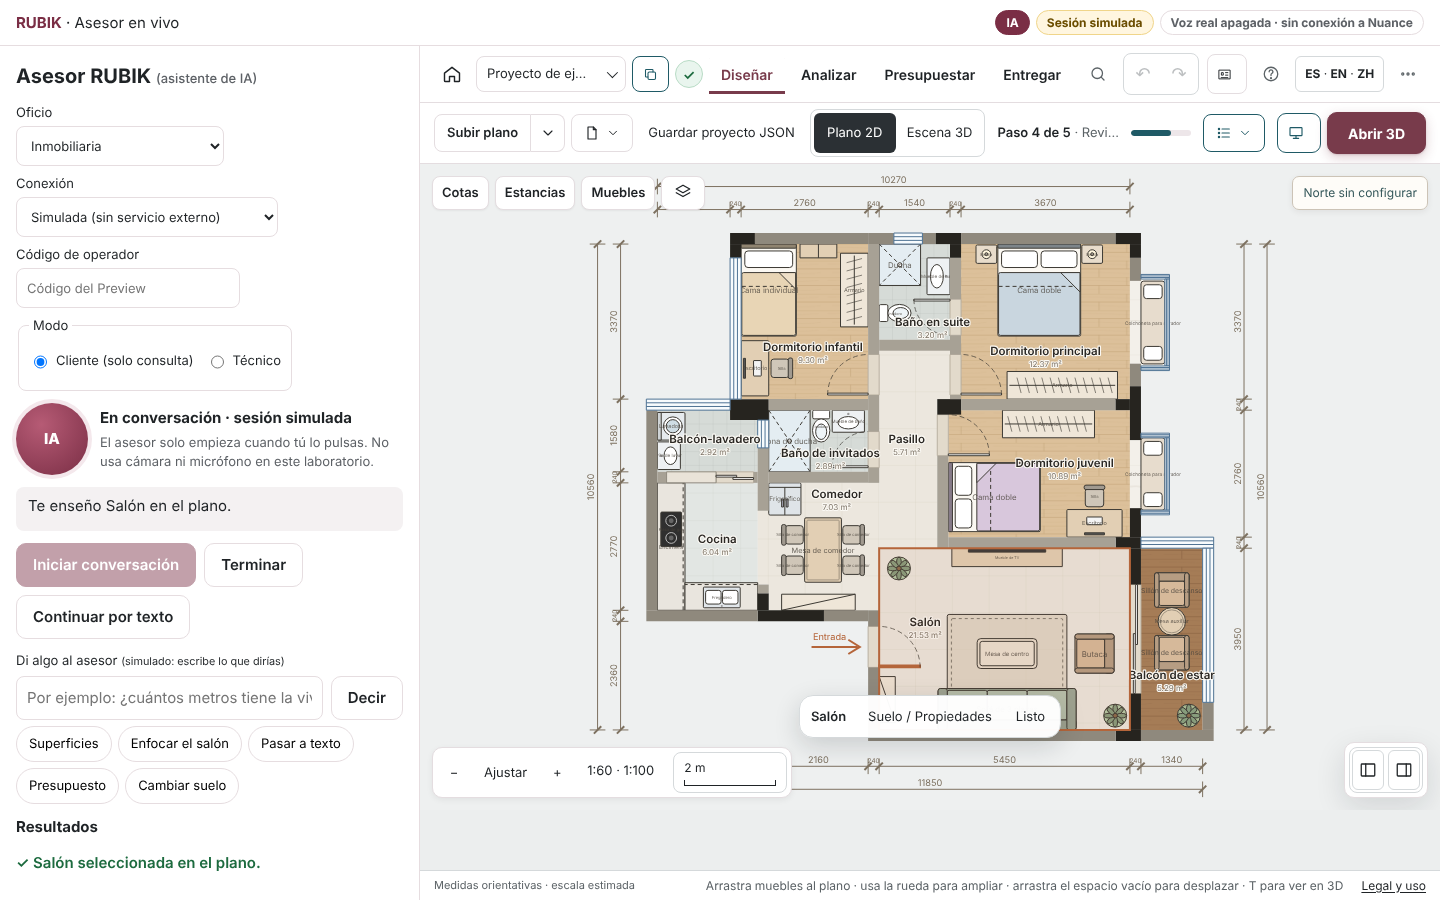
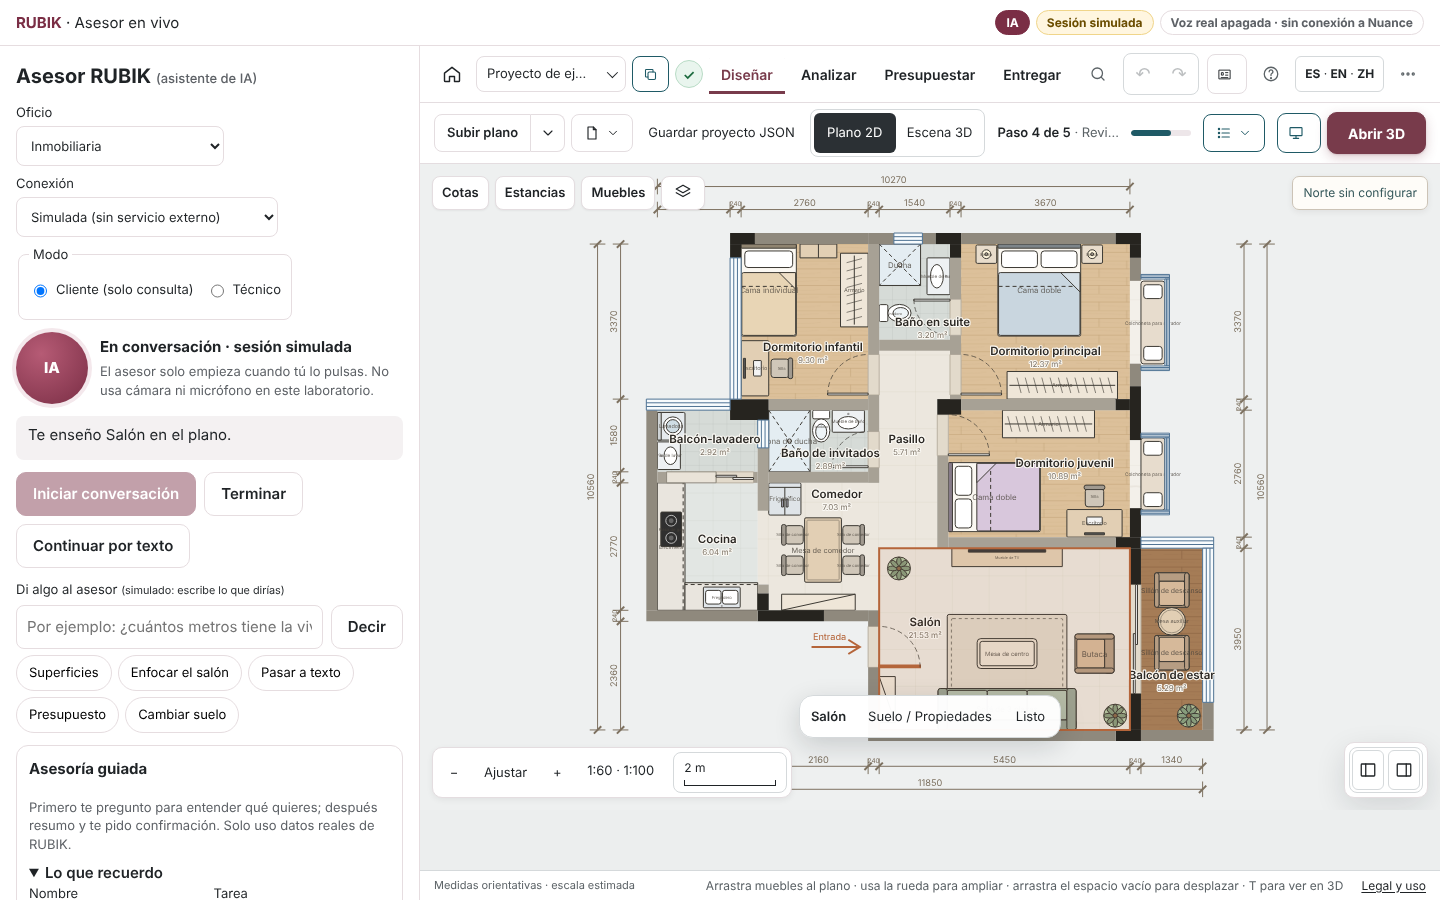
Asesor RUBIK · U14 (3/3): skills socráticos (presupuesto, organización, puntualidad, negocio) con memoria, sinceridad y seguridad legal; informe y pasos del primer ensayo privado
Pruebas del Asesor: 12/12 (servidor 5, Nuance Live contra simulador del protocolo 3, skills 2, laboratorio 2). Sin llamadas reales ni gasto.

Claude-Session: https://claude.ai/code/session_01QDzoLgCxdVTbtJTJCfqnTi

Changed region(s): [[0.0, 0.28, 0.2812, 1.0], [0.1562, 0.9956, 0.1875, 1.0]]

diff --git a/labs/asesor-rubik/skills.js b/labs/asesor-rubik/skills.js
@@ -1,0 +1,83 @@
+/* Asesor RUBIK · SKILLS del agente con INTERROGATORIO SOCRÁTICO (laboratorio; determinista, sin modelo ni red).
+   Principios (aplican a todos los skills):
+   - Memoria explícita y visible: nombre, tarea y misión final. La persona la ve, la corrige y la puede olvidar.
+   - Socrático: primero preguntas abiertas para entender qué quiere y qué necesita; después un resumen con sus palabras y
+     «¿Lo he entendido bien?». Nada se propone antes de confirmar.
+   - Realista y sincero: solo datos reales de RUBIK (superficies, tareas, presupuesto si el modo lo permite); lo estimado se
+     dice; lo que falta se dice; nunca se inventan precios, fechas ni garantías.
+   - Máxima seguridad legal: no hay asesoría legal, fiscal ni normativa vinculante; la normativa solo con fuente oficial
+     verificada por un profesional; datos personales (DNI/NIE, IBAN, teléfono, correo) no se guardan ni se envían.
+   - Respeta el modo: en modo cliente no hay costes internos; los cambios solo se proponen y se confirman en RUBIK. */
+(function(root){'use strict';
+ const fold=s=>String(s||'').toLowerCase().normalize('NFD').replace(/[̀-ͯ]/g,'');
+ // Datos personales que nunca se guardan (se avisa y se descarta la respuesta).
+ const PII=[[/\b\d{8}[a-z]\b|\b[xyz]\d{7}[a-z]\b/i,'un DNI o NIE'],[/\bES\d{2}[\s\d]{20,}/i,'un IBAN'],[/(\+34[\s-]?)?\b[6-9]\d{2}[\s-]?\d{3}[\s-]?\d{3}\b/,'un teléfono'],[/[^\s@]+@[^\s@]+\.[a-z]{2,}/i,'un correo electrónico']];
+ const LEGAL=/licencia|permiso de obra|normativa|ley\b|legal|ilegal|multa|impuesto|iva\b|hacienda|fiscal|contrato|demanda|abogad|cte\b|codigo tecnico|accesibilidad obligatoria|urbanis/;
+ const LEGAL_NOTE='No doy asesoría legal, fiscal ni normativa vinculante. Para licencias, normativa o impuestos consulta a un profesional colegiado o al organismo competente; RUBIK no verifica la normativa local.';
+ const PROMISE=/garantiz|seguro que|sin duda|100 ?%|prometo/;
+ const SKILLS={
+  presupuesto:{titulo:'Presupuesto',preguntas:[
+    ['alcance','¿Qué quieres conseguir con la obra o el proyecto, con tus palabras?'],
+    ['prioridad','Si tuvieras que elegir, ¿qué es lo más importante: plazo, calidad o coste? ¿Por qué?'],
+    ['limite','¿Tienes un límite de gasto? Puedes decir una cifra aproximada o «aún no lo sé».'],
+    ['incluye','¿Qué debería incluir sí o sí, y qué podría quedar fuera?']]},
+  organizacion:{titulo:'Organización',preguntas:[
+    ['objetivo','¿Cuál es el resultado final que necesitas tener terminado?'],
+    ['personas','¿Quién participa y quién decide en cada paso?'],
+    ['bloqueos','¿Qué te está frenando ahora mismo?']]},
+  puntualidad:{titulo:'Puntualidad y plazos',preguntas:[
+    ['fecha','¿Para qué fecha lo necesitas? (por ejemplo 2026-12-20)'],
+    ['dias','¿Cuántos días de trabajo crees que hacen falta?'],
+    ['dependencias','¿De qué o de quién depende que se cumpla (permisos, proveedores, cliente)?']]},
+  negocio:{titulo:'Negocio',preguntas:[
+    ['cliente','¿Quién es tu cliente ideal para este trabajo?'],
+    ['valor','¿Qué valor concreto recibe ese cliente que no consigue en otro sitio?'],
+    ['medida','¿Cómo sabrás que ha salido bien? Dime una medida (encargos, margen, plazo de cobro…).']]}};
+
+ class Mentor{
+  constructor({rubik,mode='cliente',tools=root.AsesorTools,now=()=>new Date()}){Object.assign(this,{rubik,mode,tools,now});this.memoria={nombre:null,tarea:null,mision:null};this.skill=null;this.i=0;this.respuestas={};this.avisos=[];}
+  recuerda(campo,valor){if(!['nombre','tarea','mision'].includes(campo))return false;const v=String(valor||'').trim().slice(0,120);const pii=this._pii(v);if(pii){this.avisos.push(pii);return false;}this.memoria[campo]=v||null;return true;}
+  olvida(){this.memoria={nombre:null,tarea:null,mision:null};this.respuestas={};this.skill=null;this.i=0;}
+  _pii(t){for(const [re,what] of PII)if(re.test(t))return `Parece ${what}. No lo guardo ni lo envío: no hace falta para ayudarte.`;return null;}
+  _hola(){return this.memoria.nombre?`${this.memoria.nombre}, `:'';}
+  empieza(skill){if(!SKILLS[skill])return {tipo:'error',texto:'No conozco ese tema.'};this.skill=skill;this.i=0;this.respuestas={};
+   const m=this.memoria.mision?` Recuerdo tu misión: «${this.memoria.mision}».`:'';
+   return {tipo:'pregunta',texto:`${this._hola()}vamos con ${SKILLS[skill].titulo.toLowerCase()}.${m} ${SKILLS[skill].preguntas[0][1]}`,clave:SKILLS[skill].preguntas[0][0]};}
+  // Una respuesta de la persona: filtro legal y de datos personales, luego la siguiente pregunta o el resumen.
+  responde(texto){const t=String(texto||'').trim();if(!this.skill)return {tipo:'error',texto:'Elige primero un tema.'};
+   const pii=this._pii(t);if(pii)return {tipo:'aviso',texto:pii+' Respóndeme sin ese dato, por favor.',clave:SKILLS[this.skill].preguntas[this.i][0]};
+   if(LEGAL.test(fold(t)))this.avisos.push(LEGAL_NOTE);
+   const [clave]=SKILLS[this.skill].preguntas[this.i];this.respuestas[clave]=t.slice(0,300);this.i++;
+   const legal=LEGAL.test(fold(t))?{legal:LEGAL_NOTE}:{};
+   if(this.i<SKILLS[this.skill].preguntas.length){const [k,q]=SKILLS[this.skill].preguntas[this.i];return {tipo:'pregunta',texto:this._eco(t)+q,clave:k,...legal};}
+   return {tipo:'confirmar',texto:this._resumen()+' ¿Lo he entendido bien?',...legal};}
+  _eco(t){const c=t.length>60?t.slice(0,57)+'…':t;return `Entiendo: «${c}». `;}
+  _resumen(){const r=this.respuestas,s=this.skill;
+   if(s==='presupuesto')return `Resumen: quieres ${r.alcance}; tu prioridad es ${r.prioridad}; límite: ${r.limite}; imprescindible: ${r.incluye}.`;
+   if(s==='organizacion')return `Resumen: el resultado final es ${r.objetivo}; participan ${r.personas}; ahora te frena ${r.bloqueos}.`;
+   if(s==='puntualidad')return `Resumen: lo necesitas para ${r.fecha}; estimas ${r.dias} días; depende de ${r.dependencias}.`;
+   return `Resumen: tu cliente ideal es ${r.cliente}; le aportas ${r.valor}; lo medirás por ${r.medida}.`;}
+  // Tras confirmar: propuesta basada SOLO en datos reales de RUBIK y en lo que la persona dijo. Nada inventado.
+  confirma(si){if(!si){this.i=0;this.respuestas={};return {tipo:'pregunta',texto:'De acuerdo, empecemos de nuevo para entenderlo mejor. '+SKILLS[this.skill].preguntas[0][1],clave:SKILLS[this.skill].preguntas[0][0]};}
+   const out=this['_'+this.skill]();if(PROMISE.test(fold(out.texto)))out.texto=out.texto.replace(/garantiz\w*/gi,'intentar');
+   if(this.memoria.tarea)out.texto+=` (Tarea: «${this.memoria.tarea}».)`;out.avisos=[...new Set(this.avisos)];return out;}
+  _session(){return {state:'live',profile:'architecture',mode:this.mode,projectId:this.rubik.project()?.id,rubik:this.rubik};}
+  _presupuesto(){const sup=this.tools.run(this._session(),'consultar_superficies',{});const m2=sup.ok?sup.data.totalM2:null;
+   const base=m2?`La vivienda tiene ${m2.toLocaleString('es-ES')} m² útiles (dato de RUBIK${sup.data.estancias.some(e=>e.estado!=='measured')?', medida estimada: la escala no está calibrada':''}).`:'No tengo la superficie del proyecto.';
+   if(this.mode==='cliente')return {tipo:'propuesta',texto:`${base} En esta sesión no puedo mostrar costes internos: es una consulta para el cliente. Anoto tu límite («${this.respuestas.limite}») y tus imprescindibles para que el profesional prepare el presupuesto con precios revisados.`,datos:{m2,importes:null}};
+   const b=this.tools.run(this._session(),'resumen_presupuesto',{});
+   if(!b.ok)return {tipo:'propuesta',texto:`${base} No puedo leer el presupuesto ahora (${b.error}).`,datos:{m2}};
+   const neto=b.data?.neto;const completo=neto&&neto.complete;
+   return {tipo:'propuesta',texto:`${base} ${completo?`Presupuesto neto calculado por RUBIK: ${neto.amount.toLocaleString('es-ES')} €.`:`El presupuesto aún no tiene un total fiable: faltan precios en algunas partidas${Number.isFinite(neto?.partialAmount)?` (suma parcial de lo que sí tiene precio: ${neto.partialAmount.toLocaleString('es-ES')} €, no es un total)`:''}.`} Contrasta con tu límite («${this.respuestas.limite}») antes de comprometer nada.`,datos:{m2,neto}};}
+  _organizacion(){const G=this.rubik.win?.FloorPlanGuideUI;let tareas=[];try{tareas=G.progress().tasks.filter(t=>t.necessary).map(t=>({t:t.title?.[0]||t.id,s:t.status}));}catch{}
+   const pend=tareas.filter(x=>x.s!=='completed');
+   return {tipo:'propuesta',texto:`Para llegar a «${this.respuestas.objetivo}»: ${pend.length?`en RUBIK te quedan ${pend.length} tareas del proyecto (${pend.map(x=>x.t).join(', ')}).`:'en RUBIK no te quedan tareas necesarias del proyecto.'} Primer paso: resolver lo que te frena (${this.respuestas.bloqueos}) y que quien decide (${this.respuestas.personas}) lo valide.`,datos:{tareas}};}
+  _puntualidad(){const fecha=new Date(this.respuestas.fecha+'T00:00:00Z'),hoy=this.now(),dias=Number(String(this.respuestas.dias).match(/\d+/)?.[0]);
+   if(isNaN(fecha)||!Number.isFinite(dias))return {tipo:'propuesta',texto:'Necesito una fecha (AAAA-MM-DD) y un número de días para ser realista. ¿Me los dices?',datos:{}};
+   const habiles=Math.max(0,Math.floor((fecha-hoy)/86400000*5/7)),margen=Math.ceil(dias*1.2);
+   const ok=habiles>=margen;
+   return {tipo:'propuesta',texto:`Quedan unos ${habiles} días laborables hasta ${this.respuestas.fecha}. Con un margen realista del 20 % necesitarías ${margen}. ${ok?'Es alcanzable si se cumplen las dependencias':'Es ajustado: no puedo decir que se cumpla'} (${this.respuestas.dependencias}). No es un compromiso: depende de terceros.`,datos:{habiles,margen,alcanzable:ok}};}
+  _negocio(){return {tipo:'propuesta',texto:`Propuesta para tu cliente (${this.respuestas.cliente}): pon por delante ${this.respuestas.valor} y enséñalo con el proyecto en 3D y su entrega. Mide el resultado por ${this.respuestas.medida}, empezando con un objetivo pequeño. No es una garantía de resultados.`,datos:{}};}
+ }
+ root.AsesorSkills=Object.freeze({Mentor,SKILLS,LEGAL_NOTE});
+})(typeof self!=='undefined'?self:globalThis);

diff --git a/labs/asesor-rubik/lab.js b/labs/asesor-rubik/lab.js
@@ -53,5 +53,17 @@
  for(const r of document.querySelectorAll('input[name=mode]'))r.addEventListener('change',()=>{if(sim&&sim.state==='live'){sim.close();log('Modo cambiado: la conversación se cerró; vuelve a iniciarla.');}});
  // Cambio de proyecto en el visor → desvincular la conversación.
  setInterval(()=>{if(sim&&sim.state==='live'&&rubik&&rubik.project()?.id!==sim.projectId)sim.unbind();},500);
- window.AsesorLab={get sim(){return sim;},get rubik(){return rubik;}};
+ // ---- Asesoría guiada (skills socráticos) ----
+ let mentor=null;const M=()=>{const mode=document.querySelector('input[name=mode]:checked').value;if(!mentor||mentor.mode!==mode){const keep=mentor?.memoria;mentor=new AsesorSkills.Mentor({rubik,mode});if(keep)mentor.memoria=keep;}return mentor;};
+ const paintMem=()=>{const m=M().memoria;$('#memView').textContent=[m.nombre&&'Nombre: '+m.nombre,m.tarea&&'Tarea: '+m.tarea,m.mision&&'Misión: '+m.mision].filter(Boolean).join(' · ')||'Aún no recuerdo nada.';
+  const w=$('#mentorWarn');w.replaceChildren();for(const a of M().avisos){const li=document.createElement('li');li.textContent=a;w.append(li);}};
+ const show=r=>{$('#mentorQ').textContent=r.texto;$('#mentorQ').dataset.tipo=r.tipo;$('#mentorForm').hidden=!(r.tipo==='pregunta'||r.tipo==='aviso');$('#mentorConfirm').hidden=r.tipo!=='confirmar';
+  if(r.legal&&!M().avisos.includes(r.legal))M().avisos.push(r.legal);if(r.tipo==='propuesta'){$('#mentorOut').textContent=r.texto;$('#mentorQ').textContent='';}
+  paintMem();if(!$('#mentorForm').hidden)$('#mentorA').focus();else if(!$('#mentorConfirm').hidden)$('#mentorYes').focus();};
+ $('#memSave').addEventListener('click',()=>{if(!rubik)return;for(const [k,id] of [['nombre','#memNombre'],['tarea','#memTarea'],['mision','#memMision']]){const v=$(id).value;if(v.trim())M().recuerda(k,v);$(id).value='';}paintMem();});
+ $('#memForget').addEventListener('click',()=>{M().olvida();M().avisos.length=0;$('#mentorOut').textContent='';$('#mentorQ').textContent='';$('#mentorForm').hidden=true;$('#mentorConfirm').hidden=true;paintMem();});
+ for(const c of document.querySelectorAll('#skillChips .chip'))c.addEventListener('click',()=>{if(!rubik)return;$('#mentorOut').textContent='';show(M().empieza(c.dataset.skill));});
+ $('#mentorForm').addEventListener('submit',e=>{e.preventDefault();const v=$('#mentorA').value;$('#mentorA').value='';if(v.trim())show(M().responde(v));});
+ $('#mentorYes').addEventListener('click',()=>show(M().confirma(true)));$('#mentorNo').addEventListener('click',()=>show(M().confirma(false)));
+ window.AsesorLab={get sim(){return sim;},get rubik(){return rubik;},get mentor(){return mentor;}};
 })();

diff --git a/labs/asesor-rubik/index.html b/labs/asesor-rubik/index.html
@@ -59,6 +59,22 @@
     <button type="button" class="chip" data-say="Cambia el suelo del salón" disabled>Cambiar suelo</button>
    </div>
   </form>
+  <section class="mentor" aria-labelledby="menT"><h2 id="menT">Asesoría guiada</h2>
+   <p class="muted">Primero te pregunto para entender qué quieres; después resumo y te pido confirmación. Solo uso datos reales de RUBIK.</p>
+   <details class="memo" open><summary>Lo que recuerdo</summary>
+    <div class="row"><label>Nombre <input id="memNombre" autocomplete="off"></label><label>Tarea <input id="memTarea" autocomplete="off"></label></div>
+    <label>Misión final <input id="memMision" autocomplete="off"></label>
+    <div class="row"><button type="button" class="btn" id="memSave">Recordar</button><button type="button" class="btn" id="memForget">Olvidar todo</button></div>
+    <p class="muted" id="memView" aria-live="polite"></p></details>
+   <div class="chips" id="skillChips" role="group" aria-label="Temas">
+    <button type="button" class="chip" data-skill="presupuesto">Presupuesto</button><button type="button" class="chip" data-skill="organizacion">Organización</button>
+    <button type="button" class="chip" data-skill="puntualidad">Puntualidad</button><button type="button" class="chip" data-skill="negocio">Negocio</button></div>
+   <p class="mentor-q" id="mentorQ" aria-live="polite"></p>
+   <form class="row" id="mentorForm" hidden><input id="mentorA" autocomplete="off" aria-label="Tu respuesta"><button class="btn primary">Responder</button></form>
+   <div class="row" id="mentorConfirm" hidden><button type="button" class="btn primary" id="mentorYes">Sí, es eso</button><button type="button" class="btn" id="mentorNo">No, te explico mejor</button></div>
+   <p class="mentor-out" id="mentorOut" aria-live="polite"></p>
+   <ul class="mentor-warn" id="mentorWarn"></ul>
+  </section>
   <section class="results" aria-labelledby="resT"><h2 id="resT">Resultados</h2><div id="results"><p class="muted">Aún no hay resultados.</p></div></section>
   <details class="qa"><summary>Laboratorio: simular errores del servicio</summary>
    <div class="row"><select id="failSel">
@@ -77,6 +93,7 @@
 <script src="tools.js"></script>
 <script src="adapter.js"></script>
 <script src="nuance-adapter.js"></script>
+<script src="skills.js"></script>
 <script src="lab.js"></script>
 </body>
 </html>

diff --git a/labs/asesor-rubik/lab.css b/labs/asesor-rubik/lab.css
@@ -37,3 +37,8 @@ legend{font-size:13px;padding:0 4px}
 @media (max-width:760px){.lab{grid-template-columns:1fr;grid-template-rows:auto 70vh}.advisor{border-right:0;border-bottom:1px solid var(--line);overflow:visible}body{display:block}}
 .avatar{position:relative;overflow:hidden}.avatar video{position:absolute;inset:0;width:100%;height:100%;object-fit:cover;border-radius:50%}
 label.op input{min-width:200px}
+.mentor{display:flex;flex-direction:column;gap:8px;border:1px solid var(--line);border-radius:12px;padding:12px}
+.mentor .memo summary{cursor:pointer;font-weight:600}.mentor .memo label{display:flex;flex-direction:column;gap:4px;font-size:13px;flex:1;min-width:120px}
+.mentor-q{margin:0;font-weight:600}.mentor-q:empty{display:none}.mentor-out{margin:0;padding:8px 12px;background:#e9f5ee;border-radius:8px}.mentor-out:empty{display:none}
+.mentor-warn{margin:0;padding-left:18px;color:var(--bad);font-size:13px}.mentor .row input{flex:1;min-width:0}
+[hidden]{display:none!important}

diff --git a/labs/asesor-rubik/tools.js b/labs/asesor-rubik/tools.js
@@ -37,7 +37,7 @@
   // ---- Fuera del modo cliente (datos internos o cambios). Existen en la lista para poder RECHAZARLAS en ejecución. ----
   T('resumen_presupuesto','Importes del presupuesto del proyecto (costes internos del profesional).',none,
    {readOnlyHint:true,destructiveHint:false},
-   (rubik)=>{const r=rubik.tools.execute('get_budget_summary',{},rubik.ctx(),'lab-bud');return r.ok?{ok:true,data:{neto:r.data?.totals?.net??null}}:{ok:false,error:r.error.code};}),
+   (rubik)=>{const r=rubik.tools.execute('get_budget_summary',{},rubik.ctx(),'lab-bud');return r.ok?{ok:true,data:{neto:r.data?.net??null,sinPrecio:r.data?.unpricedItems?.length??null}}:{ok:false,error:r.error.code};}),
   T('proponer_cambio_suelo','Propone cambiar el suelo de una estancia. Solo se aplica tras confirmación explícita en RUBIK.',
    room({properties:{roomName:{type:'string'},materialId:{type:'string'}},required:['roomName','materialId']}),
    {readOnlyHint:false,destructiveHint:false},

diff --git a/labs/asesor-rubik/adapter.js b/labs/asesor-rubik/adapter.js
@@ -25,7 +25,7 @@
   return {
    tools:win.RubikAssistantDomainTools,
    project:()=>win.FloorPlanApp?.project,
-   ctx:()=>({project:win.FloorPlanApp.project}),
+   ctx:()=>{let budget;try{budget=win.FloorPlanBudgetUI?.current?.()?.budget;}catch{}return budget?{project:win.FloorPlanApp.project,budget}:{project:win.FloorPlanApp.project};},
    displayName:n=>nm(n,'room'),
    // Igual que tocar la estancia en el plano: selección (Inspector) y, en 3D, el encuadre del visor.
    focusRoom:id=>{win.select({kind:'room',id});if(win.FloorPlanApp?.viewMode==='3d')win.View3D?.focusRoom?.(id);},

diff --git a/docs/qa/asesor-rubik/U14-NUANCE-LIVE-Y-SKILLS.md b/docs/qa/asesor-rubik/U14-NUANCE-LIVE-Y-SKILLS.md
@@ -1,0 +1,90 @@
+# U14 · Asesor RUBIK: Nuance Live preparado (sin llamadas reales) y skills socráticos
+
+**Rama:** `claude/asesor-rubik-en-vivo`. **HEAD verificado al empezar:** `75291e8d` (último auditado).
+Se reutilizan el laboratorio, el puente con RUBIK (`adapter.js · rubikBridge`) y la lista de herramientas (`tools.js`).
+
+## Qué hay
+| Pieza | Archivo | Estado |
+|---|---|---|
+| Inicio controlado por el servidor | `api/advisor-session.js` | Cerrado por defecto (solo Preview). Operador autenticado. Reserva atómica de cuota y una sola sesión activa. `GET /usage`. Token con cámara del usuario desactivada y las 3 herramientas del cliente. El **servidor** crea la conversación con `max_session_seconds` y entrega al navegador un token **ya gastado**. Cierre y abandono con `Content-Length: 0`. |
+| Adaptador Nuance Live | `labs/asesor-rubik/nuance-adapter.js` | Inicio por clic. Eventos por long-poll con cursor. Sala LiveKit (`livekit-client@2.5.7`). Micrófono con cancelación de eco y sin cámara. Vídeo y audio del avatar, subtítulos, herramientas por delegación, errores, cancelación durante la conexión y cierre con limpieza. **Desactivado por defecto:** el laboratorio arranca en «Simulada». |
+| Simulador local del protocolo | `tests/fixtures/nuance-mock.cjs` | Reproduce `/session-tokens`, `/conversation`, eventos, `/end`, `/abandon`, `/usage`, los errores 401/403/409/411/429/503 y el topic `nuance_live`. |
+| Skills socráticos | `labs/asesor-rubik/skills.js` | Presupuesto, organización, puntualidad y negocio. Memoria de nombre, tarea y misión. Preguntas, resumen y confirmación antes de proponer. Solo datos reales. Sin asesoría legal ni fiscal vinculante. No guarda datos personales. |
+
+## Decisiones comprobadas en la documentación de Nuance
+- `max_session_seconds` solo existe en `POST /conversation` (token de sesión), no en `/session-tokens`. Por eso la conversación la crea el servidor.
+- El SDK JS (`createNuanceConversation`) siempre crea la conversación: no documenta unirse a una ya creada. Se usa el **transporte directo documentado**: eventos y luego LiveKit con el `livekit_url` y el `token` del evento `admitted`.
+- **Inferencia por verificar en el primer ensayo:** que el servidor llame a `POST /conversation` con el token. La documentación no lo prohíbe ni lo describe.
+- El tope **no** se acredita con un temporizador de interfaz. Lo acreditan el `max_session_seconds` fijado por el servidor y el cierre desde el servidor. La reconciliación con `GET /usage` queda para el ensayo.
+
+## Seguridad: corrección incluida
+En modo cliente, «continuar por texto» sigue en el asesor con las mismas consultas. Ya **no abre** el Asistente completo de RUBIK, que consulta costes internos. Comprobado por voz simulada, por texto y por delegación real del protocolo.
+
+## Pruebas (12/12 en verde)
+- `tests/advisor-session.test.cjs` · **5/5** (servidor contra el simulador):
+  - cerrado por defecto, nunca en Production, y el código del operador nunca viaja;
+  - orden de las llamadas: saldo → token → conversación con tope;
+  - el token gastado no crea otra conversación;
+  - dos solicitudes simultáneas: una 201 y otra 409;
+  - tope diario, saldo agotado y errores del proveedor, con la reserva liberada;
+  - abandono, y 411 si falta `Content-Length: 0`.
+- `tests/asesor-rubik-live.browser.test.cjs` · **3/3** (Chromium 1440 y 390 con micrófono falso):
+  - inicio por gesto;
+  - micrófono con `echoCancellation:true` y sin pedir cámara;
+  - vídeo del avatar con fotogramas y audio conectado;
+  - subtítulos;
+  - herramientas permitidas con su resultado real por `function_call_output` + `response.create`;
+  - 4 herramientas no permitidas rechazadas, con el proyecto idéntico;
+  - pasar a texto sin abrir costes internos;
+  - cancelación durante la conexión (abandono);
+  - errores de saldo, concurrencia, capacidad y no disponible, con recursos liberados;
+  - cierre con limpieza y foco;
+  - **0 peticiones al proveedor real**;
+  - en modo simulado, 0 peticiones al simulador y al servidor de voz.
+- `tests/asesor-rubik-skills.browser.test.cjs` · **2/2**:
+  - memoria y olvido;
+  - DNI rechazado;
+  - preguntas antes de proponer, con eco, resumen y confirmación;
+  - presupuesto sin importes en modo cliente;
+  - superficie real y estimada;
+  - aviso legal;
+  - plazos con margen del 20 % y sin promesas;
+  - modo técnico con el motor real y sin total inventado;
+  - 0 peticiones externas.
+- `tests/asesor-rubik-lab.browser.test.cjs` · **2/2**: el laboratorio simulado, actualizado al traspaso seguro.
+
+**No probado aquí (requiere el ensayo autorizado):**
+- WebRTC/LiveKit real;
+- audio, vídeo y voz reales del proveedor;
+- facturación real;
+- `ended.reason` reales;
+- el comportamiento del SDK.
+
+## Primer ensayo privado: pasos exactos (NO ejecutado; requiere autorización)
+1. **Autorización del propietario**, con un presupuesto aprobado (créditos máximos) y la cuenta y el ámbito de Nuance confirmados.
+2. **Variables en Vercel**, solo en Preview y en la rama del ensayo:
+   - `RUBIK_ADVISOR_ENABLED=1`;
+   - `RUBIK_ADVISOR_TOKEN`: código de operador de 32 a 200 caracteres, distinto de los demás códigos de RUBIK;
+   - `RUBIK_ADVISOR_NUANCE_KEY` (`nk_…`, como secreto);
+   - `RUBIK_ADVISOR_DAILY_STARTS`: por ejemplo `3`;
+   - `RUBIK_ADVISOR_MAX_SESSION_SECONDS`: por ejemplo `120`;
+   - `RUBIK_SPEND_STORE_URL` y `RUBIK_SPEND_STORE_TOKEN`.
+   - **No** definir `RUBIK_ADVISOR_TEST_API`.
+3. **Antes de empezar,** anotar `GET /usage` (`available_credits`, `credits.used`) desde el panel o la consola de Nuance.
+4. **Iniciar:** abrir la Preview → `labs/asesor-rubik/` → Conexión «Nuance Live» → código de operador → «Iniciar conversación».
+5. **Comprobar** y anotar:
+   - que la conversación arranca;
+   - vídeo y audio del avatar;
+   - subtítulos;
+   - las 3 consultas por voz en **inglés** (la API reconoce y habla solo inglés);
+   - el rechazo de «¿cuánto cuesta?»;
+   - «Terminar», que debe cerrar la sesión en el servidor.
+6. **Medir:** duración real, créditos antes y después (`GET /usage`), y si `max_session_seconds` corta la sesión al llegar al tope (con el tope corto del paso 2).
+7. **Documentar las diferencias con el simulador:**
+   - eventos no previstos;
+   - `ended.reason`;
+   - tiempos;
+   - si el servidor puede crear la conversación con el token (la inferencia de arriba).
+8. **Cierre de seguridad:** comprobar que no queda ninguna conversación activa y volver a `RUBIK_ADVISOR_ENABLED=0`.
+
+**Español para clientes:** la documentación dice que la persona habla y reconoce solo inglés, y rechaza otros idiomas con `instructions_refused`. La salida en español requiere validar una conversación real en español cuando el proveedor lo ofrezca.
